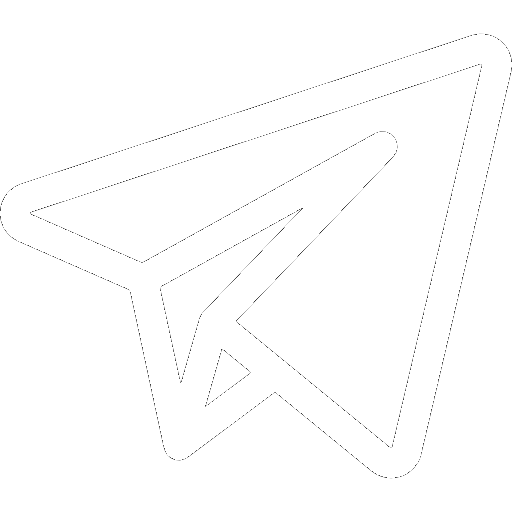
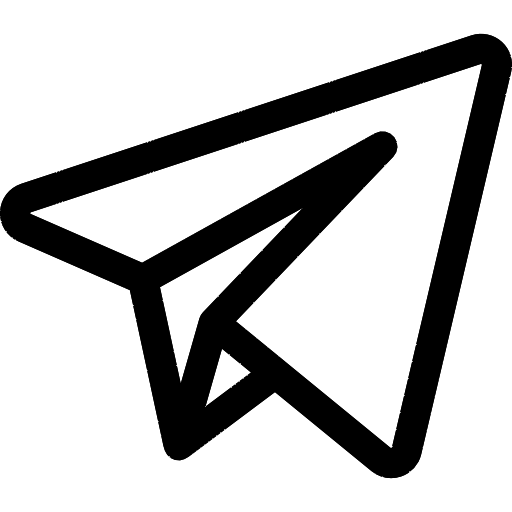
Editing

Changed region(s): [[0.0, 0.0625, 1.0, 0.9375]]

diff --git a/js/index.js b/js/index.js
@@ -3,7 +3,8 @@ document.addEventListener("DOMContentLoaded", () => {
   function theme() {
     const lightThemeBtn = document.querySelector(".light-theme-btn"),
       darkThemeBtn = document.querySelector(".dark-theme-btn"),
-      active_theme = document.querySelector(".active_theme");
+      active_theme = document.querySelector(".active_theme"),
+      telegramImg = document.querySelector(".telegramImg");
     const systemPrefersLight = window.matchMedia(
       "(prefers-color-scheme: light)"
     ).matches;
@@ -22,19 +23,19 @@ document.addEventListener("DOMContentLoaded", () => {
     };
     applyTheme(defaultTheme === "light");
     lightThemeBtn.addEventListener("click", () => {
+      telegramImg.src = "./img/telegram.png";
       console.log("Light Theme clicked");
       applyTheme(true);
     });
 
     darkThemeBtn.addEventListener("click", () => {
+      telegramImg.src = "./img/telegramLight.png";
       console.log("Dark Theme clicked");
       applyTheme(false);
     });
   }
 
   theme();
-
-  // Dynamically navbar
 
   function navbar() {
     const header = document.querySelector("#header");
@@ -73,7 +74,6 @@ document.addEventListener("DOMContentLoaded", () => {
       menuBtn = createElement("button", commonClasses.button),
       info_box = createElement("div", navClasses.infoBox),
       info_boxBtn = createElement("button", commonClasses.button[1]);
-    //
 
     header.prepend(nav);
     menu_box.appendChild(menuBtn);
@@ -122,7 +122,6 @@ document.addEventListener("DOMContentLoaded", () => {
   }
   navbar()
 
-  // Foydalanuvchi joylashuvini aniqlash va ob-havo ma'lumotlarini ko'rsatish
   function updateWeather() {
     // DOM elementlarni topish
     const locationSpan = document.querySelector(".current_localation span"),
@@ -138,7 +137,6 @@ document.addEventListener("DOMContentLoaded", () => {
 
     const degSelect = document.querySelector("#deg-select");
 
-    // Haftaning kunlari ro'yxati
     const weekdays = [
       "Sunday",
       "Monday",
@@ -163,24 +161,20 @@ document.addEventListener("DOMContentLoaded", () => {
       "December",
     ];
 
-    // Joylashuvni olish
     if (navigator.geolocation) {
       navigator.geolocation.getCurrentPosition(
         async (position) => {
           const { latitude, longitude } = position.coords;
 
-          // OpenWeather API orqali ob-havo ma'lumotlarini olish
-          const apiKey = "a40ebafd2f0a56d81aeaa5fbd82b18dc"; // OpenWeather API kalitini kiriting
+          const apiKey = "a40ebafd2f0a56d81aeaa5fbd82b18dc";
           const weatherUrl = `https://api.openweathermap.org/data/2.5/weather?lat=${latitude}&lon=${longitude}&units=metric&appid=${apiKey}`;
 
           try {
             const response = await fetch(weatherUrl);
             const weatherData = await response.json();
 
-            // Foydalanuvchi joylashuvi nomini ko'rsatish
             locationSpan.textContent = weatherData.name;
 
-            // Haftaning kunini aniqlash
             const today = new Date();
             weekdayElement.textContent = weekdays[today.getDay()];
             const yearsMonth = months[today.getMonth()];
@@ -189,7 +183,6 @@ document.addEventListener("DOMContentLoaded", () => {
               3
             )},${today.getFullYear()}`;
 
-            // Ob-havo holatini va tasvirini yangilash
             const weatherCondition = weatherData.weather[0].main.toLowerCase();
             console.log(weatherCondition);
 
@@ -213,7 +206,6 @@ document.addEventListener("DOMContentLoaded", () => {
             weatherImg.src = imgSrc;
             weatherImg.alt = weatherCondition;
 
-            // Maksimal va minimal haroratni yangilash
             weatherMax.textContent = `${Math.round(
               weatherData.main.temp_max
             )}°C`;
@@ -224,10 +216,8 @@ document.addEventListener("DOMContentLoaded", () => {
               weatherData.main.feels_like
             )}°C`;
 
-            // Ob-havo holatini yangilash
             weatherStatus.textContent = weatherData.weather[0].description;
 
-            // Harorat o'lchov birligini o'zgartirish (C / F)
             degSelect.addEventListener("change", (event) => {
               const selectedUnit = event.target.value;
               const currentTempMax = Math.round(weatherData.main.temp_max);
@@ -236,7 +226,6 @@ document.addEventListener("DOMContentLoaded", () => {
               console.log(typeof weatherData.main.temp_max);
 
               if (selectedUnit === "dog") {
-                // Farengeytga aylantirish
                 weatherMax.textContent = `${Math.round(
                   (currentTempMax * 9) / 5 + 32
                 )}°F`;
@@ -247,7 +236,6 @@ document.addEventListener("DOMContentLoaded", () => {
                   (currentFeelsLike * 9) / 5 + 32
                 )}°F`;
               } else {
-                // Celsiusga qaytarish
                 weatherMax.textContent = `${Math.round(currentTempMax)}°C`;
                 weatherMin.textContent = `/${Math.round(currentTempMin)}°C`;
                 weatherFeels.textContent = `Feels like ${Math.round(

diff --git a/index.html b/index.html
@@ -12,17 +12,17 @@
 <body>
   <header id="header" class="p-4 h-100 d-flex w-100">
     <!-- nav -->
-    <main class="main text-white w-100">
+    <main class="main w-100">
       <div class="row mb-3">
         <div class="col-md-7">
           <span class="">Salom, Elon Musk</span>
           <b class="d-block fs-2 fw-semibold">Hayrli Tong</b>
         </div>
         <div class="col-md-5 d-flex align-items-center">
-          <input type="text" class="form-control border-0 text-white  searchbar"
+          <input type="text" class="form-control border-0  searchbar"
             placeholder="Joylashuvingizni qidiring...">
           <a href="https://t.me/elnur0710" target="_blank"
-            class="d-flex align-items-center justify-content-center mx-2 p-1"><img width="30" src="./img/telegram.png"
+            class="d-flex align-items-center justify-content-center mx-2 p-1"><img class="telegramImg" width="30" src="./img/telegramLight.png"
               alt=""></a>
           <div class="theme_buttons d-flex align-items-center">
             <span class="active_theme"></span>
@@ -39,7 +39,7 @@
             </button>
             <ul class="dropdown-menu dropdown-menu-end" aria-labelledby="dropdownMenuButton">
               <li>
-                <button class="dropdown-item text-white current_user_data d-flex" href="#">
+                <button class="dropdown-item current_user_data d-flex" href="#">
                   <img src="./img/user-avatar.png" alt="user avatar">
                   <div class="user_data mx-3">
                     <div class="current_user_name">Elon Musk</div>
@@ -48,13 +48,13 @@
                 </button>
               </li>
               <li>
-                <button class="dropdown-item d-flex align-items-center text-white p-3 px-4" href="#">
+                <button class="dropdown-item d-flex align-items-center p-3 px-4" href="#">
                   <img class="mx-2" src="./img/gear.png" width="20" alt="">
                   <span class="mx-3">Hisobni boshqarish</span>
                 </button>
               </li>
               <li>
-                <button class="dropdown-item d-flex align-items-center text-white p-3 px-4" href="#">
+                <button class="dropdown-item d-flex align-items-center p-3 px-4" href="#">
                   <img class="mx-2" src="./img/sign-out.png" width="20" alt="">
                   <span class="mx-3">Tizimdan chiqish</span>
                 </button>
@@ -70,8 +70,8 @@
             <div class="row p-3">
               <div class="col-md-8 current-day">
                 <div class="current_localation d-flex align-content-center"><img src="./img/weather_images/localation.svg" alt="" class="ico px-1"><span>Dhaka, Bangladesh</span></div>
-                <div class="weekday fs-2 fw-medium">Sunday</div>
-                <div class="mmddyy">04 Aug,2024</div>
+                <div class="weekday fs-2 fw-medium">weekday</div>
+                <div class="mmddyy">dd mm,yyyy</div>
                 <div class="current-day-img">
                   <img src="./img/weather_images/rainny.svg" width="142" alt="">
                 </div>
@@ -82,12 +82,12 @@
                   <option value="dog">F</option>
                 </select>
                 <div class="weather-degries">
-                  <div class="weather-max-data fw-bold fs-1">28&deg;C</div>
-                  <div class="weather-min-data fs-5">/22&deg;C</div>
+                  <div class="weather-max-data fw-bold fs-1">0&deg;C</div>
+                  <div class="weather-min-data fs-5">/0&deg;C</div>
                 </div>
                 <div class="weather-status">
                   <div class="status fw-bolder fs-5 text-capitalize">Heavy Rain</div>
-                  <div class="feels">Feels like 31&deg;</div>
+                  <div class="feels">Feels like 0&deg;</div>
                 </div>
               </div>
             </div>
